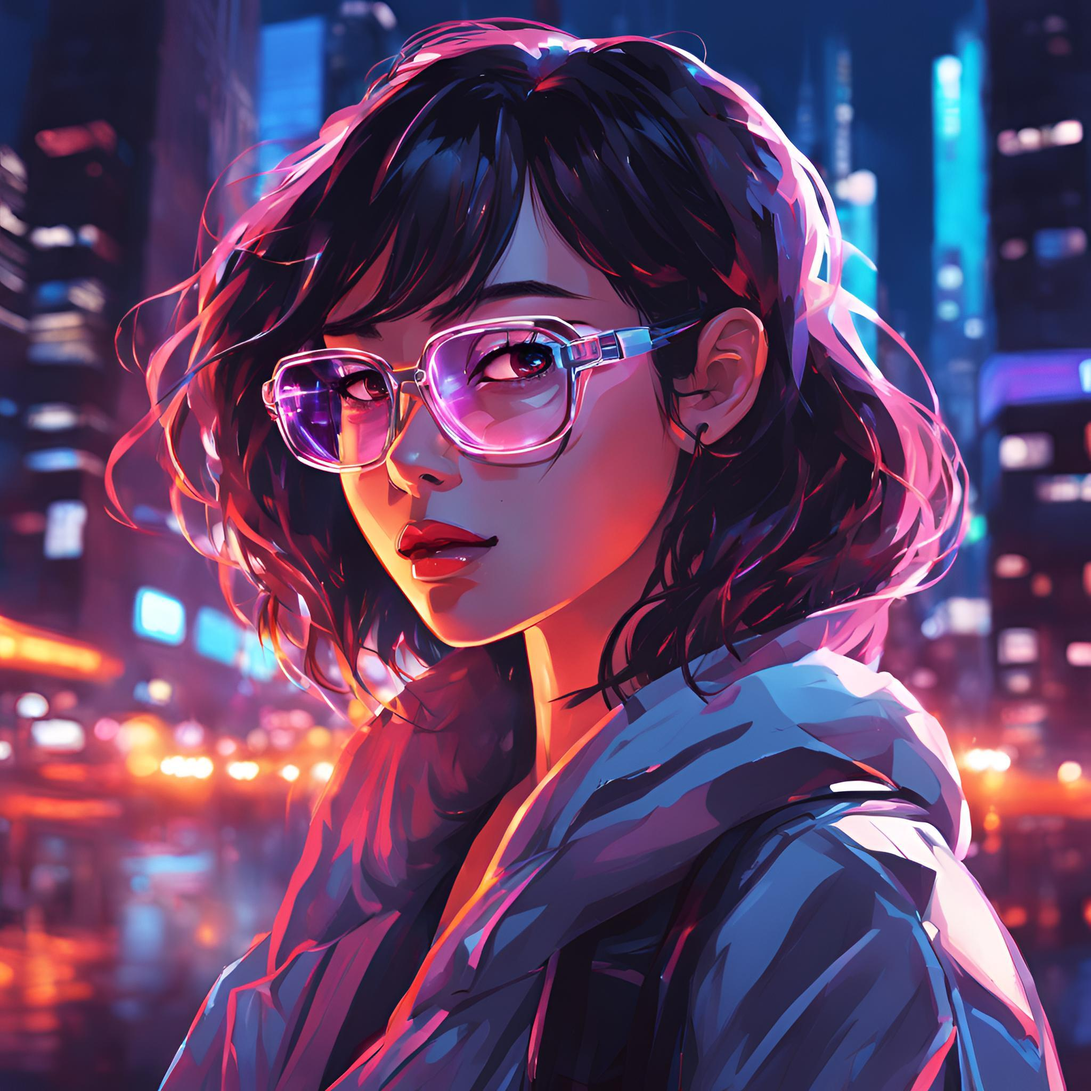
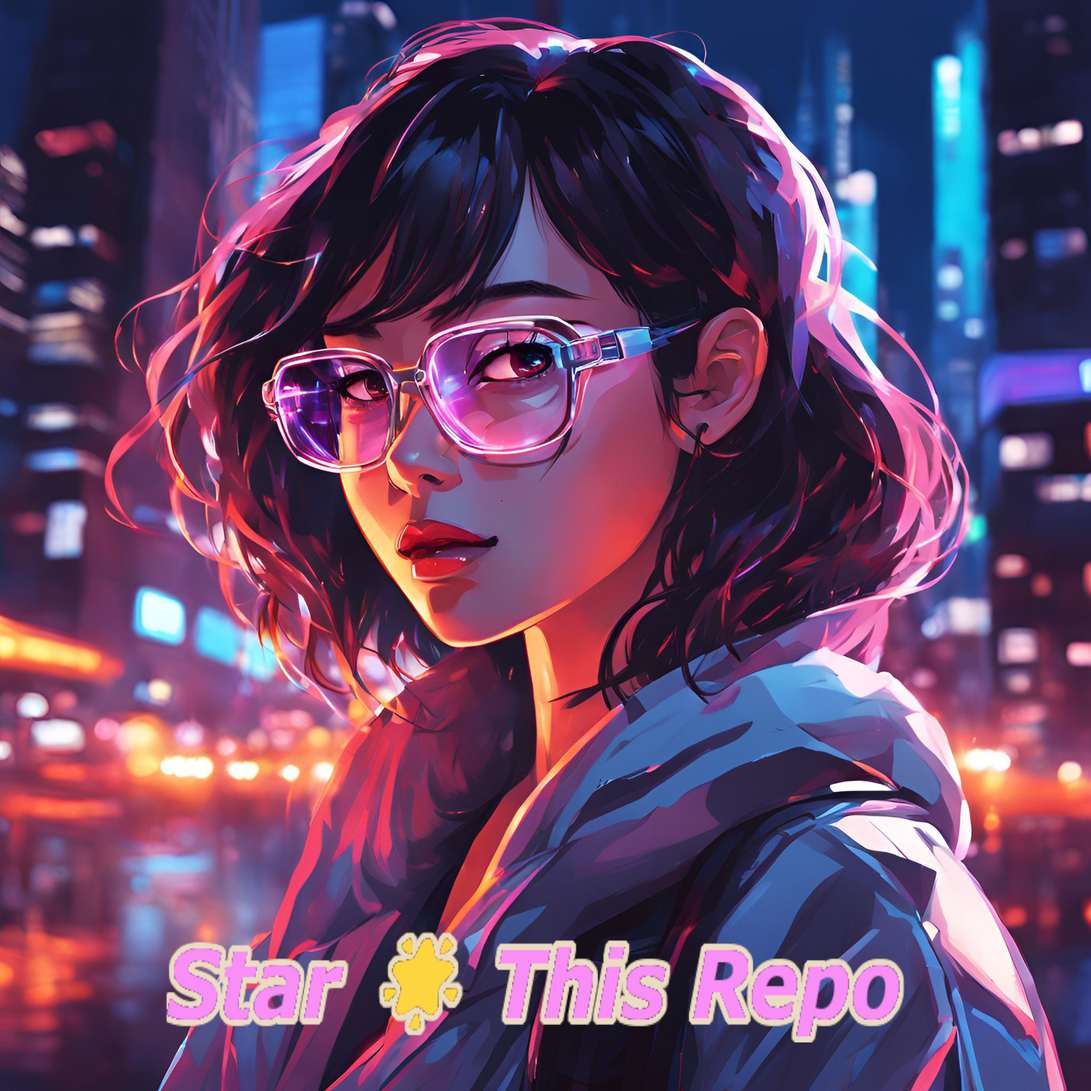
:page: updated readme page <_>

Changed region(s): [[0.125, 0.8438, 0.8438, 0.9688]]

diff --git a/README.md b/README.md
@@ -1,6 +1,51 @@
-# Funny Anime
+# 🌟 Star This Repo - Anime Girl Magic!
 
-![](https://tenor.com/nJgYgzK96iv.gif)
+Welcome to the **Anime Girl Image Updater!** This fun little project ensures that your GitHub profile stays fresh with a randomly selected anime-style image. Show your love for anime, open-source, and dynamic content by starring ⭐ this repo!
+
+## ✨ Why You'll Love This
+- 🎲 **Randomized Anime Magic** - Each update brings a new surprise anime image!
+- 🖼 **Instant Profile Upgrade** - Your README will always look unique and fresh.
+- 🔧 **Lightweight & Simple** - Uses Python and regex to update the `<img>` tag in your README.
+- 🤖 **Automate with GitHub Actions** - Keep your profile dynamic without lifting a finger.
+
+## 🚀 Getting Started
+
+### 1⃣ Clone the Repo
+```bash
+git clone https://github.com/your-username/anime-girl-image-updater.git
+cd anime-girl-image-updater
+```
+
+### 2⃣ Prepare Your Setup
+- Make sure Python is installed on your system.
+- Store anime images in the `anime_women/` directory.
+- Maintain an `image_files.json` file listing image filenames under the key `images`.
+
+### 3⃣ Run the Magic Script
+```bash
+python update_readme.py
+```
+Boom! Your README is now blessed with an anime waifu. 🎀
+
+## 🤖 Automate the Fun with GitHub Actions
+Want hands-free anime girl updates? Set up a **GitHub Action** to run this script on a schedule. Your profile will always be refreshed with new anime goodness!
+
+## 🎮 Future Enhancements
+- 🎁 **Gacha System** - Starring ⭐ the repo will reveal a random anime girl message!
+- 🕹 **Interactive Web Interface** - Customize and select your favorite anime styles.
+- ✨ **Advanced Styling Options** - More control over how your images are displayed.
+
+## 💖 Join the Community!
+Love this project? Show your support by:
+- **⭐ Starring** the repo
+- **🍴 Forking** to add your own anime magic
+- **💬 Suggesting Features** & improvements
+
+Let's make GitHub a more anime-friendly place! 🚀💖
+
+---
+Made with 💕 for anime lovers and open-source dreamers. 🎀
+
 
 
 <img id="updatable" src="anime_women/DALL·E 2025-01-19 17.07.50 - A detailed anime-style illustration of a confident and elegant woman with a friendly yet assertive expression, wearing a fashionable outfit. She is ge.webp" height="400px" width = "400px">
